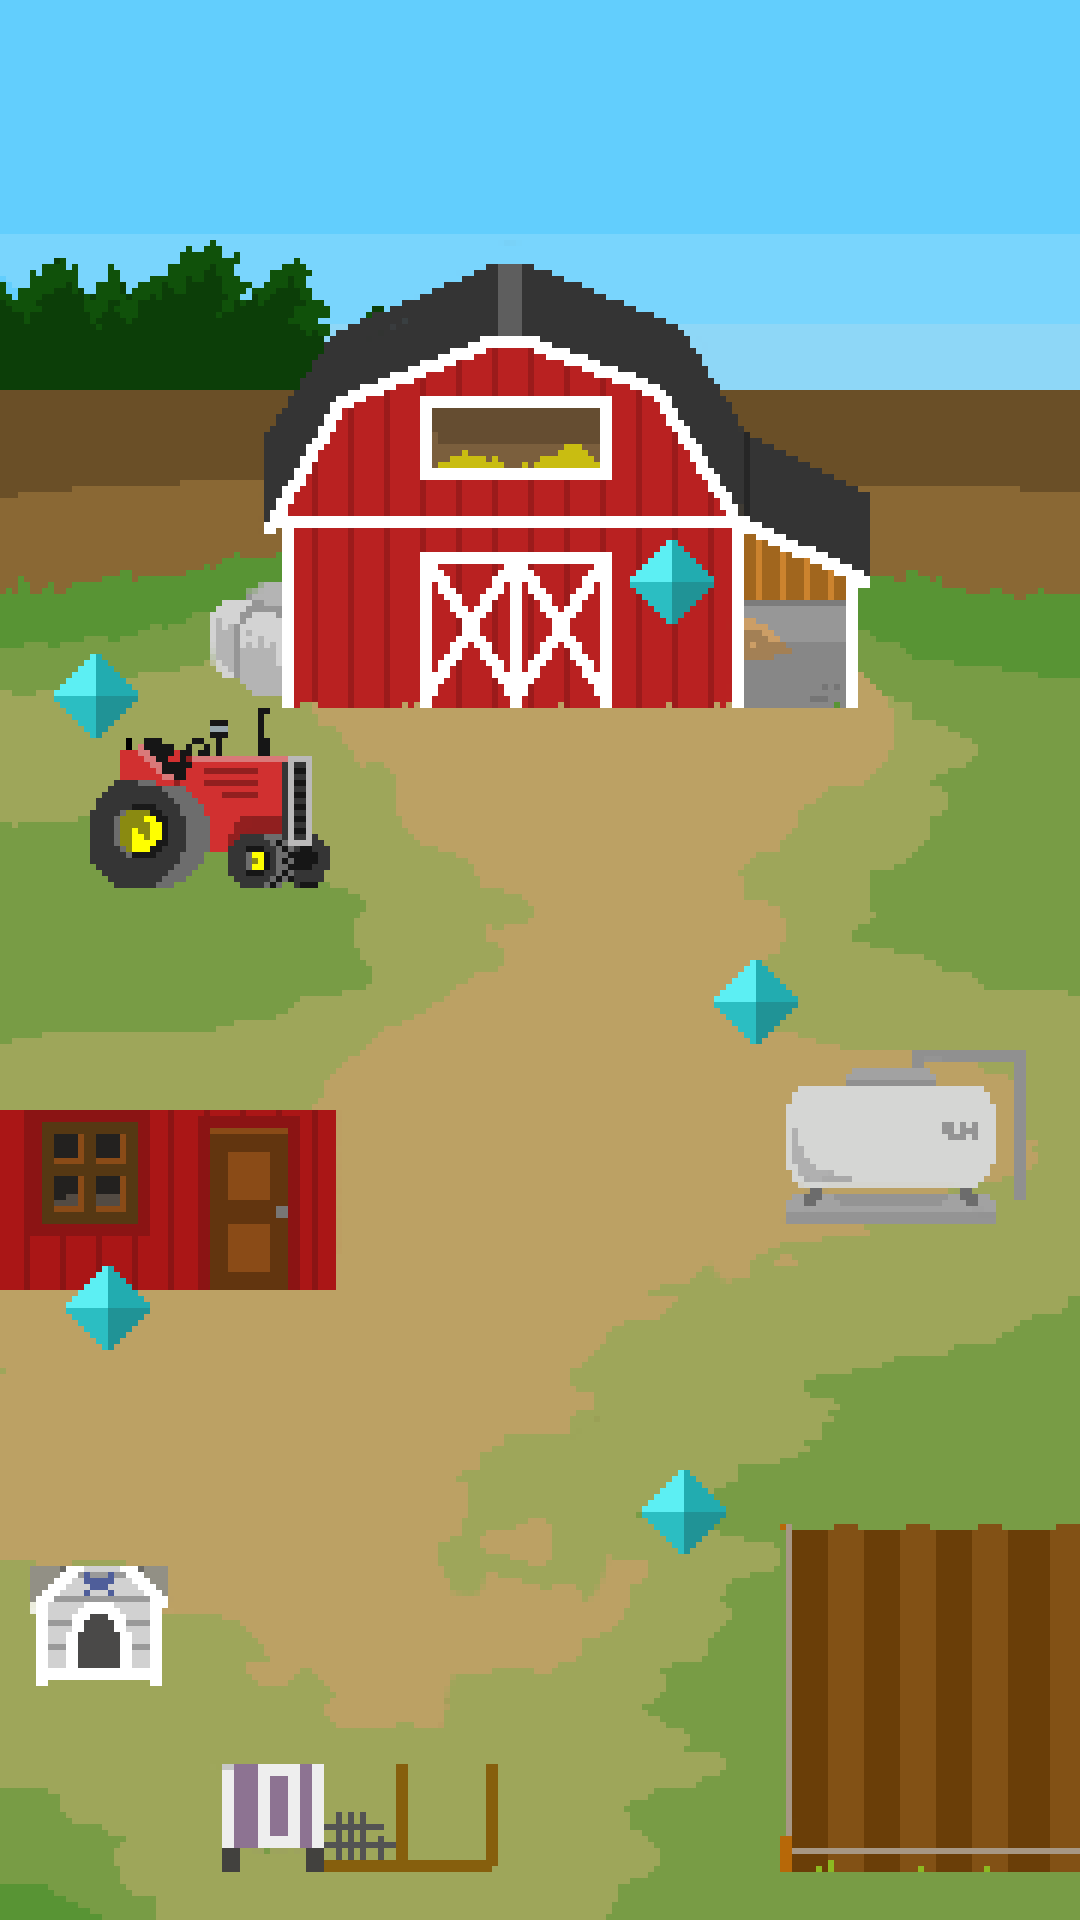
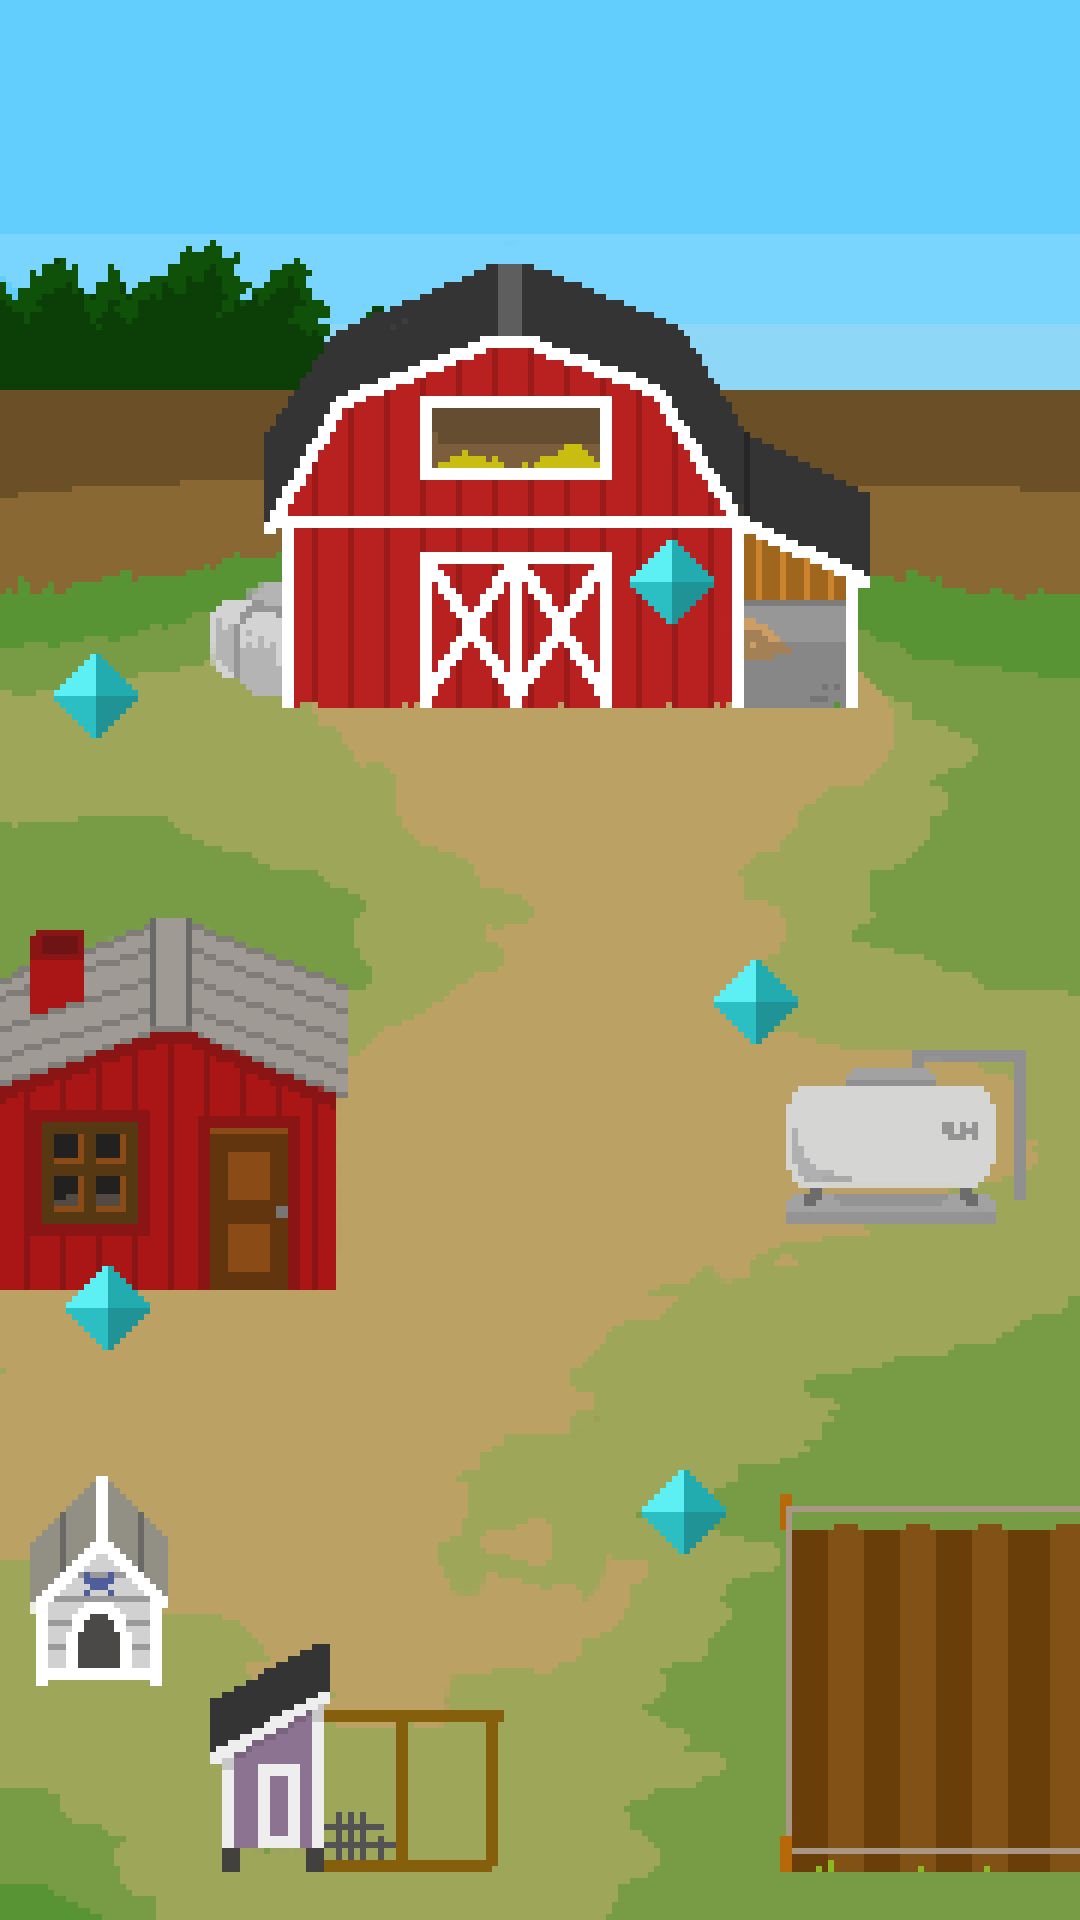
Added textures for all tractor models. Updated tractor location variables and scale Updated farmBackground.png to a version without the tractor Updated computerBackground.png, will be updated again when a version without roofs is available. Updated Computer.tmx to match the new background Added UI I

diff --git a/core/src/fi/tuni/tiko/FarmScreen.java b/core/src/fi/tuni/tiko/FarmScreen.java
@@ -37,8 +37,8 @@ public class FarmScreen extends Location implements Screen {
         tractor2 = new Texture("props/tractor1.png");
         tractor3 = new Texture("props/tractor1.png");
         sun = new Texture("props/sun.png");
-        tractorX = 0.45f;
-        tractorY = 8.3f;
+        tractorX = 0.75f;
+        tractorY = 8.6f;
 
         camera.setToOrtho(false, WORLD_WIDTH, WORLD_HEIGHT);
         tiledMap = new TmxMapLoader().load("maps/Farm.tmx");
@@ -83,7 +83,7 @@ public class FarmScreen extends Location implements Screen {
         batch.begin();
         player.draw(batch);
         batch.draw(background, 0,0, WORLD_WIDTH, WORLD_HEIGHT);
-        batch.draw(tractorTex(), tractorX,tractorY, 1, 1);
+        batch.draw(tractorTex(), tractorX,tractorY, 2f, 1.5f);
         // Check what level of solar panels and set foreground accordingly.
         if (game.gameData.getSolarPanelLevel() == 1) {
             batch.draw(backgroundSolar, 0,0, WORLD_WIDTH, WORLD_HEIGHT);
